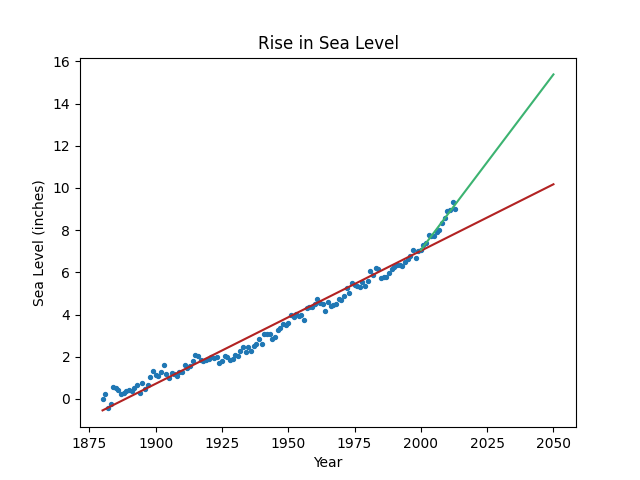
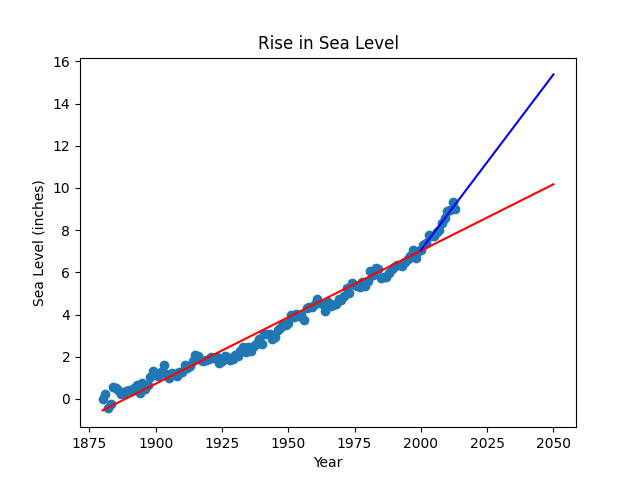
final

diff --git a/sea_level_predictor.py b/sea_level_predictor.py
@@ -1,35 +1,24 @@
-from turtle import color
 import pandas as pd
 import matplotlib.pyplot as plt
 from scipy.stats import linregress
-import numpy as np
 
 def draw_plot():
     # Read data from file
     df = pd.read_csv('epa-sea-level.csv')
-
     # Create scatter plot
-    fig = plt.figure()
-    plt.scatter(df['Year'],df['CSIRO Adjusted Sea Level'],s=8)
-
+    fig, ax = plt.subplots()
+    ax.scatter(x= "Year", y = "CSIRO Adjusted Sea Level", data = df)
     # Create first line of best fit
-    res1 = linregress(df['Year'], df['CSIRO Adjusted Sea Level'])
-    x1 = np.arange(df['Year'].min(),2051,1)
-    y1 = res1.intercept + res1.slope*x1
-    plt.plot(x1,y1,color='firebrick')
-
+    slope, intercept, r_value, p_value, std_err = linregress(df["Year"], df["CSIRO Adjusted Sea Level"])
+    years = pd.Series(range(1880,2051))
+    ax.plot(years, intercept + slope*years, 'r', label='first line of best fit')
     # Create second line of best fit
-    df2 = df[df['Year']>=2000]
-    res2 = linregress(df2['Year'], df2['CSIRO Adjusted Sea Level'])
-    x2 = np.arange(df2['Year'].min(),2051,1)
-    y2 = res2.intercept + res2.slope*x2
-    plt.plot(x2,y2,color='mediumseagreen')
-
+    df2 = df.loc[df["Year"] >= 2000]
+    slope2, intercept2, r_value2, p_value2, std_err2 = linregress(df2["Year"], df2["CSIRO Adjusted Sea Level"])
+    years2 = pd.Series(range(2000,2051))
+    ax.plot(years2, intercept2 + slope2*years2, 'b', label='second line of best fit')
     # Add labels and title
-    plt.xlabel('Year')
-    plt.ylabel('Sea Level (inches)')
-    plt.title('Rise in Sea Level')
-    
+    ax.set(xlabel="Year", ylabel="Sea Level (inches)", title="Rise in Sea Level")
     # Save plot and return data for testing (DO NOT MODIFY)
     plt.savefig('sea_level_plot.png')
     return plt.gca()
